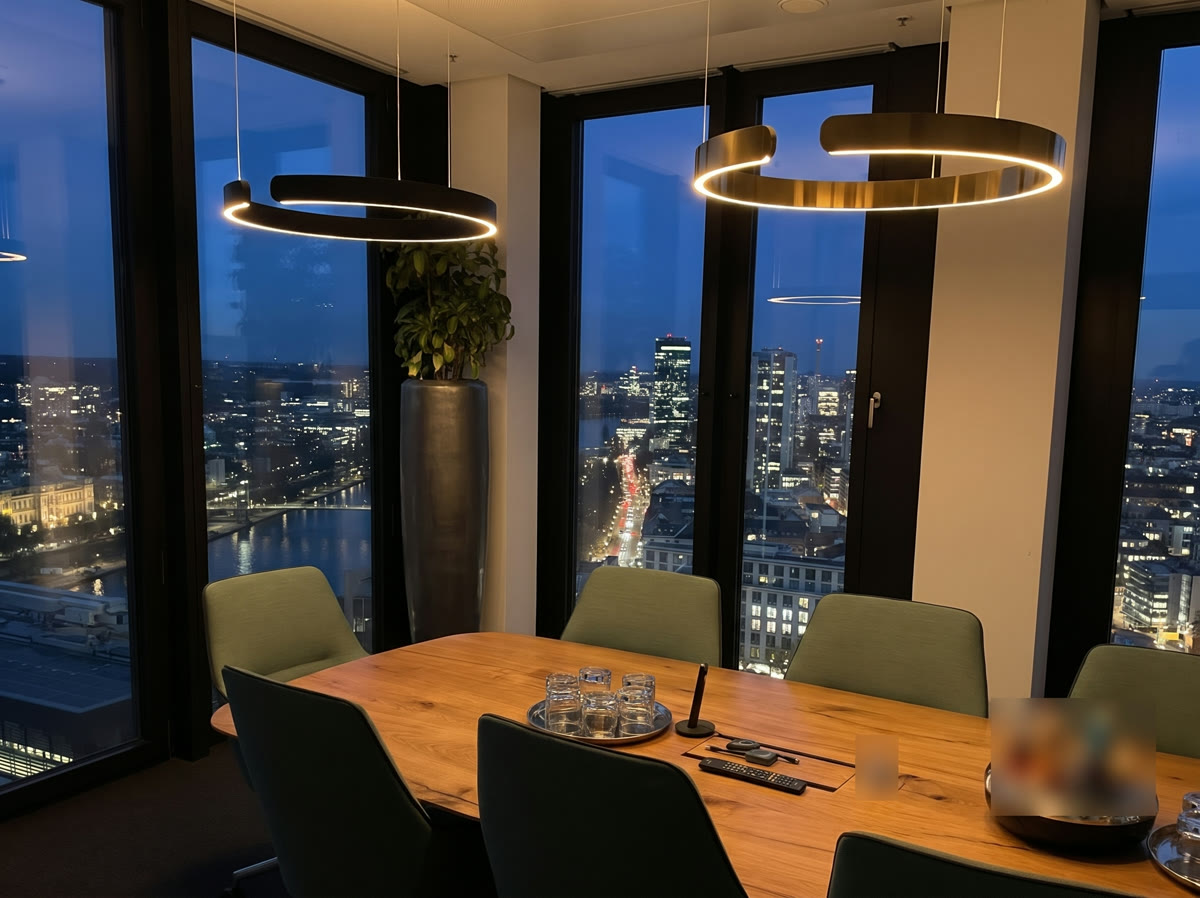
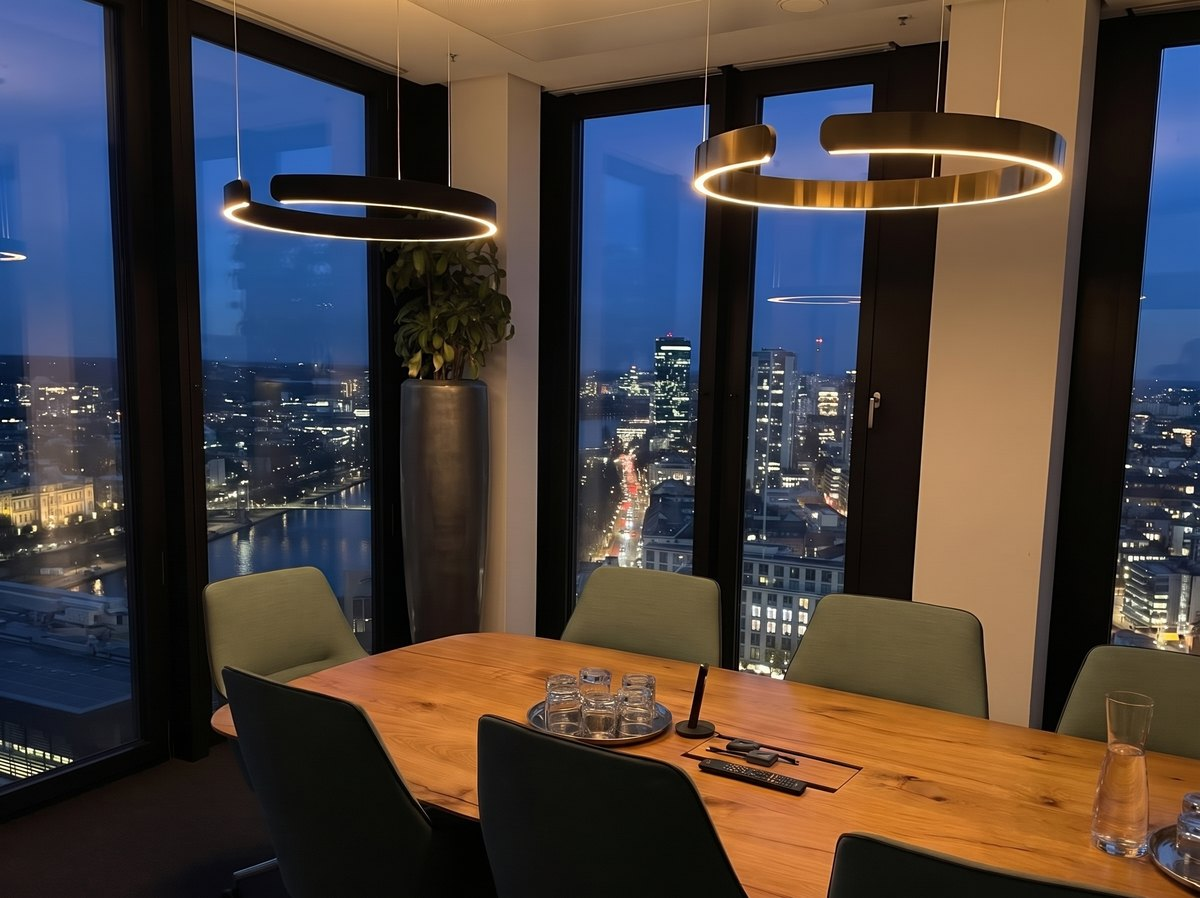
R&F Website: Städte-Karussell auch in der Termin-Ansicht von „Deine Finanzbildung“ (dort kam noch das alte Raster), Akademie-Karten aufsteigend wie beim Institut, Online-Fenster auf der Terminseite ohne Kursauswahl, Raumfotos ohne verpixelte Gegenstände, Rainmaker-Raum im Nachtmodus als Abendfoto (S

diff --git a/rf-website/termine/mock_pt.js b/rf-website/termine/mock_pt.js
@@ -108,13 +108,13 @@ function blattOnline(name,startD){if(OK)return blattKal(name,startD);var w=weltV
 var MONATE=['Januar','Februar','März','April','Mai','Juni','Juli','August','September','Oktober','November','Dezember'];
 function onlineEintraege(){var L=[];['g','b'].forEach(function(w){W[w].a.forEach(function(x){var n=x[0];if(!buchbar(n)||!x[4])return;alleOnline(n,w).forEach(function(d){L.push({d:d,n:n,w:w,p:x[4].replace(' live online',''),ws:!!WS_NAMEN[n]});});});});
   L.sort(function(a,b){return a.d-b.d||a.n.localeCompare(b.n);});return L;}
-function blattKal(name,startD){var w0=weltVon(name),ALLE=onlineEintraege(),modus='kurs',sel=null,monat=null;
+function blattKal(name,startD,allg){/* allg: Terminseite → Online (Simon 16.11.2026): ohne Kursnamen und ohne Umschalter, immer alle Kurse */var w0=weltVon(name),ALLE=onlineEintraege(),modus=allg?'alle':'kurs',sel=null,monat=null;
   function liste(){return modus==='kurs'?ALLE.filter(function(e){return e.n===name;}):ALLE;}
   function tagKey(d){return d.getFullYear()+'-'+d.getMonth()+'-'+d.getDate();}
-  var I=sheet('<p class="mv-sh-klein">'+name+' · '+weltText(w0)+'</p>'
+  var I=sheet((allg?'':'<p class="mv-sh-klein">'+name+' · '+weltText(w0)+'</p>')
     +'<div class="pt-seg" role="tablist"><button type="button" data-x="ort">Vor Ort</button><button type="button" class="an" data-x="online">Online · von überall</button></div>'
     +'<div class="pt-onl-kopf"><div><h3 class="mv-sh-h">Live online</h3><p class="mv-sh-klein">Live per Video, egal wo du wohnst</p></div></div>'
-    +'<div class="pt-filter"><button type="button" data-f="kurs" class="an">Nur '+name+'</button><button type="button" data-f="alle">Alle Kurse</button></div>'
+    +(allg?'':'<div class="pt-filter"><button type="button" data-f="kurs" class="an">Nur '+name+'</button><button type="button" data-f="alle">Alle Kurse</button></div>')
     +'<p class="pt-legende"><span><i style="background:#2F7A55"></i>Akademie</span><span><i style="background:#2E5AA8"></i>Institut</span></p>'
     +'<div class="pt-kal-box"></div>'
     +'<div class="pt-fuss"><div class="pt-wahl"></div><button type="button" class="mv-sh-knopf mv-sh-anm">Anmelden</button><p class="mv-sh-hinw" hidden>Hier öffnet sich die Anmeldung (Stripe-Link folgt)</p>'
@@ -226,5 +226,5 @@ function beschrifte(){document.querySelectorAll('#detail a.knopf, .raum a.knopf'
   var ziel=PT==='2'?'Termine & Anmeldung':KNOPF;if(h&&buchbar(h.textContent.trim())&&a.textContent!==ziel)a.textContent=ziel;});}
 new MutationObserver(beschrifte).observe(document.documentElement,{childList:true,subtree:true});
 /* Runde 193 (Simon 16.11.2026): Termine-Karussell öffnet über „Online“ direkt dieses Online-Fenster */
-window.rfOnlineKal=function(n){blattKal(n||'Dein erster Tag');};
+window.rfOnlineKal=function(n,allg){blattKal(allg?null:(n||'Dein erster Tag'),null,allg);};
 })();

diff --git a/rf-website/termine/mock_kz.js b/rf-website/termine/mock_kz.js
@@ -47,7 +47,7 @@ function baue(RS){if(RS.dataset.kz)return;RS.dataset.kz='1';var U=document.query
       k.style.filter=a>.05?'brightness('+(1-.4*Math.min(a,1))+') blur('+Math.min(1.6,a*.6)+'px)':'none';k.style.pointerEvents=a<=2.2?'auto':'none';});
     var ci=((Math.round(pos)%n)+n)%n;[].slice.call(P.children).forEach(function(p,i){p.classList.toggle('an',i===ci);});var c=K[ci];LOS.textContent=c===on?'Online-Termine ›':'Termine in '+c.querySelector('b').textContent+' ›';}
   function geh(s){cur=((cur+s)%n+n)%n;lage();}
-  function oeffne(k){if(k===on||!k){if(window.rfOnlineKal){window.rfOnlineKal('Dein erster Tag');setTimeout(function(){var f=document.querySelector('.pt-filter [data-f="alle"]');if(f)f.click();},60);}else online();return;}else if(k._o)k._o.click();}
+  function oeffne(k){if(k===on||!k){if(window.rfOnlineKal){window.rfOnlineKal(null,true);setTimeout(function(){var f=document.querySelector('.pt-filter [data-f="alle"]');if(f)f.click();},60);}else online();return;}else if(k._o)k._o.click();}
   /* Ziehen mit Finger und Maus: Karten folgen stufenlos, beim Loslassen einrasten; kurzer Tipp = Antippen */
   var x0=null,t0=0,bewegt=false;
   R.addEventListener('pointerdown',function(e){if(e.button>0)return;x0=e.clientX;t0=Date.now();bewegt=false;zug=0;R.classList.add('zieht');try{R.setPointerCapture(e.pointerId);}catch(x){}});
@@ -71,7 +71,7 @@ function baue(RS){if(RS.dataset.kz)return;RS.dataset.kz='1';var U=document.query
      (alle Kurse); das Karussell bleibt dahinter stehen. Schließen oder „Vor Ort“ im Blatt schaltet zurück auf „Vor Ort“. */
   var S=box.querySelectorAll('.kz-seg button');
   function seg(i){S.forEach(function(c,j){c.classList.toggle('an',j===i);});}
-  function onlineAuf(){seg(1);if(!window.rfOnlineKal){online();return;}window.rfOnlineKal('Dein erster Tag');
+  function onlineAuf(){seg(1);if(!window.rfOnlineKal){online();return;}window.rfOnlineKal(null,true);
     setTimeout(function(){var f=document.querySelector('.pt-filter [data-f="alle"]');if(f)f.click();
       var o=document.querySelector('.pt-seg [data-x="ort"]');if(o)o.addEventListener('click',function(e){e.stopPropagation();e.preventDefault();var x=[].filter.call(document.querySelectorAll('button'),function(q){return q.textContent.trim()==='×'&&q.offsetParent&&q.closest('[class*="sh"]');})[0];if(x)x.click();seg(0);},true);
       var uhr=setInterval(function(){var offen=[].some.call(document.querySelectorAll('.pt-kal-box'),function(k){return k.offsetParent!==null;});if(!offen){clearInterval(uhr);seg(0);}},300);},60);}

diff --git a/rf-website/termine/preise.html b/rf-website/termine/preise.html
@@ -522,7 +522,7 @@ html[data-modus="dunkel"]{--rand:rgba(38,52,77,0.16)}
 </section>
 </main>
 <p class="fussklein"><a href="recht.html#impressum">Impressum</a> · <a href="recht.html#datenschutz">Datenschutz</a></p>
-<script src="seite.js?v=20261113h"></script>
+<script src="seite.js?v=20261116n"></script>
 <script src="hh_leben.js?v=5"></script>
 <script>/* Simon 13.11.2026, Runde 95: Leben am Hochhaus auch auf „Wähle deine Welt“ */document.querySelectorAll('.d-teil .n-bild').forEach(function(n){if(n.querySelector('.hh-grund'))window.rfLeben(n);});</script>
 <script>
@@ -868,6 +868,6 @@ if(q.get('w')){var wi=['g','b','s'].indexOf(q.get('w'));if(wi>=0){akt=wi;mitte(w
   addEventListener('resize',function(){setze();});
 })();
 </script>
-<link rel="stylesheet" href="mock.css?v=127"><script src="mock.js?v=127"></script><link rel="stylesheet" href="mock_v.css?v=139"><script src="mock_v.js?v=178"></script><link rel="stylesheet" href="mock_k.css?v=178"><script src="mock_k.js?v=147"></script><script>/* Simon 15.11.2026, Runden 180–183: Preis → Termin über „Wann und wo?“ (V3), Termine als Knöpfe (A), Umschalter Vor Ort | Online (O2) */window.RF_PT={pt:"3",wt:"a",on:"2",ok:"1"};   /* Runde 185: Online-Blatt als Kalender C1 (Simon 15.11.: „das passt“) */</script><link rel="stylesheet" href="mock_pt.css?v=185"><script src="mock_pt.js?v=193"></script>
+<link rel="stylesheet" href="mock.css?v=127"><script src="mock.js?v=127"></script><link rel="stylesheet" href="mock_v.css?v=139"><script src="mock_v.js?v=198"></script><link rel="stylesheet" href="mock_k.css?v=178"><script src="mock_k.js?v=147"></script><script>/* Simon 15.11.2026, Runden 180–183: Preis → Termin über „Wann und wo?“ (V3), Termine als Knöpfe (A), Umschalter Vor Ort | Online (O2) */window.RF_PT={pt:"3",wt:"a",on:"2",ok:"1"};   /* Runde 185: Online-Blatt als Kalender C1 (Simon 15.11.: „das passt“) */</script><link rel="stylesheet" href="mock_pt.css?v=185"><script src="mock_pt.js?v=196"></script><script src="mock_kz.js?v=6"></script><!-- Simon 16.11.2026: Karussell auch in der eingebauten Termin-Ansicht -->
 </body>
 </html>

diff --git a/rf-website/termine/seite.js b/rf-website/termine/seite.js
@@ -160,7 +160,7 @@
   var D=document.documentElement,KEY='rf-modus';
   if(D.dataset.seite==='kinder')return;   /* Sternstunde hat ihren eigenen Nachthimmel */
   var WEB=[['bilder/web/01_main_blaue-stunde_16x9.jpg','bilder/nacht/01_main_nacht_16x9.jpg?n=2'],['bilder/web/08_gruen_leuchtturm_4x3.jpg','bilder/nacht/08_gruen_nacht_4x3.jpg?n=2'],['bilder/web/06_blau_raum-abend_4x3.jpg','bilder/nacht/06_blau_nacht_4x3.jpg?n=2'],
-    ['bilder/web/10_gruen_investmenttag_4x3.jpg','bilder/nacht/10_gruen_nacht_4x3.jpg?n=2'],['bilder/web/09_gruen_sessel_4x3.jpg','bilder/nacht/09_gruen_sessel_nacht_4x3.jpg?n=1'],['app/fotos/tagungsraum.jpg','bilder/nacht/tagungsraum_nacht.jpg?n=2'],
+    ['bilder/web/10_gruen_investmenttag_4x3.jpg','bilder/nacht/10_gruen_nacht_4x3.jpg?n=2'],['bilder/web/09_gruen_sessel_4x3.jpg','bilder/nacht/09_gruen_sessel_nacht_4x3.jpg?n=1'],['app/fotos/tagungsraum.jpg','bilder/nacht/tagungsraum_nacht.jpg?n=3'],['app/fotos/raum_panorama.jpg','bilder/nacht/raum_panorama_nacht.jpg?n=1'],
     ['bilder/web/02_skyline_goldene-stunde_16x9.jpg','bilder/nacht/02_skyline_nacht_16x9.jpg?n=2'],['bilder/web/12_main_nacht_hoch_9x16.jpg','bilder/nacht/12_main_hoch_nacht_b_9x16.jpg?n=2']];   /* 13.11.: drei Probe-Nachtfotos (Runde 85, B) und Handy-Startbild B */
   var PREISE='hh_ebenen9_0.webp,hh_vorne9.webp,flieger.webp,hg_b.webp,hg_g.webp,hh_ebenen8.mp4,hh_ebenen8_0.webp,hh_frei.webp,hh_raeume_zu.webp,hh_stadt.webp,hh_stadt_hd.webp,hh_vorne.webp,hh_vorne8.webp,hh_vorne_hd.webp,hh_wolken8.webp,leuchtturm_wellen.mp4,lt_film.mp4,lt_film_0.webp,lt_frei.webp,lt_laterne.webp,lt_offen.webp,lt_offen_hd.webp,lt_raeume_zu.webp,lt_schleife_0.webp,n_hh_raeume_zu.webp,n_hh_stadt.webp,n_hh_stadt_hd.webp,n_hh_vorne.webp,n_hh_vorne_hd.webp,wolke_1.webp,wolke_2.webp,wolke_3.webp,wolke_4.webp,wolke_5.webp'.split(',');
   function dunkel(){return D.getAttribute('data-modus')==='dunkel';}

diff --git a/rf-website/seite.js b/rf-website/seite.js
@@ -160,7 +160,7 @@
   var D=document.documentElement,KEY='rf-modus';
   if(D.dataset.seite==='kinder')return;   /* Sternstunde hat ihren eigenen Nachthimmel */
   var WEB=[['bilder/web/01_main_blaue-stunde_16x9.jpg','bilder/nacht/01_main_nacht_16x9.jpg?n=2'],['bilder/web/08_gruen_leuchtturm_4x3.jpg','bilder/nacht/08_gruen_nacht_4x3.jpg?n=2'],['bilder/web/06_blau_raum-abend_4x3.jpg','bilder/nacht/06_blau_nacht_4x3.jpg?n=2'],
-    ['bilder/web/10_gruen_investmenttag_4x3.jpg','bilder/nacht/10_gruen_nacht_4x3.jpg?n=2'],['bilder/web/09_gruen_sessel_4x3.jpg','bilder/nacht/09_gruen_sessel_nacht_4x3.jpg?n=1'],['app/fotos/tagungsraum.jpg','bilder/nacht/tagungsraum_nacht.jpg?n=2'],
+    ['bilder/web/10_gruen_investmenttag_4x3.jpg','bilder/nacht/10_gruen_nacht_4x3.jpg?n=2'],['bilder/web/09_gruen_sessel_4x3.jpg','bilder/nacht/09_gruen_sessel_nacht_4x3.jpg?n=1'],['app/fotos/tagungsraum.jpg','bilder/nacht/tagungsraum_nacht.jpg?n=3'],['app/fotos/raum_panorama.jpg','bilder/nacht/raum_panorama_nacht.jpg?n=1'],
     ['bilder/web/02_skyline_goldene-stunde_16x9.jpg','bilder/nacht/02_skyline_nacht_16x9.jpg?n=2'],['bilder/web/12_main_nacht_hoch_9x16.jpg','bilder/nacht/12_main_hoch_nacht_b_9x16.jpg?n=2']];   /* 13.11.: drei Probe-Nachtfotos (Runde 85, B) und Handy-Startbild B */
   var PREISE='flieger.webp,hg_b.webp,hg_g.webp,hh_ebenen8.mp4,hh_ebenen8_0.webp,hh_frei.webp,hh_raeume_zu.webp,hh_stadt.webp,hh_stadt_hd.webp,hh_vorne.webp,hh_vorne8.webp,hh_vorne_hd.webp,hh_wolken8.webp,leuchtturm_wellen.mp4,lt_film.mp4,lt_film_0.webp,lt_frei.webp,lt_laterne.webp,lt_offen.webp,lt_offen_hd.webp,lt_raeume_zu.webp,lt_schleife_0.webp,n_hh_raeume_zu.webp,n_hh_stadt.webp,n_hh_stadt_hd.webp,n_hh_vorne.webp,n_hh_vorne_hd.webp,wolke_1.webp,wolke_2.webp,wolke_3.webp,wolke_4.webp,wolke_5.webp'.split(',');
   function dunkel(){return D.getAttribute('data-modus')==='dunkel';}

diff --git a/rf-website/termine/termine.html b/rf-website/termine/termine.html
@@ -522,7 +522,7 @@ html[data-modus="dunkel"]{--rand:rgba(38,52,77,0.16)}
 </section>
 </main>
 <p class="fussklein"><a href="recht.html#impressum">Impressum</a> · <a href="recht.html#datenschutz">Datenschutz</a></p>
-<script src="seite.js?v=20261113h"></script>
+<script src="seite.js?v=20261116n"></script>
 <script src="hh_leben.js?v=5"></script>
 <script>/* Simon 13.11.2026, Runde 95: Leben am Hochhaus auch auf „Wähle deine Welt“ */document.querySelectorAll('.d-teil .n-bild').forEach(function(n){if(n.querySelector('.hh-grund'))window.rfLeben(n);});</script>
 <script>
@@ -868,6 +868,6 @@ if(q.get('w')){var wi=['g','b','s'].indexOf(q.get('w'));if(wi>=0){akt=wi;mitte(w
   addEventListener('resize',function(){setze();});
 })();
 </script>
-<link rel="stylesheet" href="mock.css?v=127"><script src="mock.js?v=127"></script><link rel="stylesheet" href="mock_v.css?v=139"><script src="mock_v.js?v=141"></script><link rel="stylesheet" href="mock_pt.css?v=185"><link rel="stylesheet" href="mock_k.css?v=178"><script src="mock_k.js?v=178"></script><script>window.RF_PT=window.RF_PT||{pt:"3",wt:"a",on:"2",ok:"1"}</script><script src="mock_pt.js?v=193"></script><script src="mock_kz.js?v=5"></script>
+<link rel="stylesheet" href="mock.css?v=127"><script src="mock.js?v=127"></script><link rel="stylesheet" href="mock_v.css?v=139"><script src="mock_v.js?v=198"></script><link rel="stylesheet" href="mock_pt.css?v=185"><link rel="stylesheet" href="mock_k.css?v=178"><script src="mock_k.js?v=178"></script><script>window.RF_PT=window.RF_PT||{pt:"3",wt:"a",on:"2",ok:"1"}</script><script src="mock_pt.js?v=196"></script><script src="mock_kz.js?v=6"></script>
 </body>
 </html>

diff --git a/rf-website/termine/mock_v.js b/rf-website/termine/mock_v.js
@@ -92,7 +92,7 @@ if(M==='v1'){
     B.dataset.w=WK[wi];B.querySelector('.mv-lw').textContent=TXT[wi].kurz;B.querySelector('.mv-hinweis').hidden=true;
     var R=B.querySelector('.mv-reihe');R.innerHTML='';R.scrollLeft=0;R.scrollTop=0;
     /* Runde 190 (Simon 16.11.2026: „die günstigen Preise fangen immer links an … Mentoring ganz rechts, 3-Stunden-Workshop links“): Institut-Kacheln aufsteigend */
-    (WK[wi]==='b'?kurse(wi).slice().reverse():kurse(wi)).forEach(function(c){var k=el('button','mv-karte','<span class="mv-bild" style="background-image:url(bilder/preise/'+BILD[c.name]+'?v=139)"></span><span class="mv-ktext"><b>'+c.name+'</b><small>'+(c.kurz||'')+'</small><em>'+c.preis+'</em><span class="mv-mehr">Raum ansehen ›</span></span>');
+    kurse(wi).slice().reverse().forEach(/* Simon 16.11.2026: beide Welten aufsteigend, links günstig, rechts teuer */function(c){var k=el('button','mv-karte','<span class="mv-bild" style="background-image:url(bilder/preise/'+BILD[c.name]+'?v=139)"></span><span class="mv-ktext"><b>'+c.name+'</b><small>'+(c.kurz||'')+'</small><em>'+c.preis+'</em><span class="mv-mehr">Raum ansehen ›</span></span>');
       k.onclick=function(e){e.stopPropagation();geheZu(wi,c.j);};R.appendChild(k);});
     B.classList.add('auf');}
   SEG.forEach(function(s,i){s.onclick=function(e){e.stopPropagation();zeige(aktiv===i?-1:i);};});
